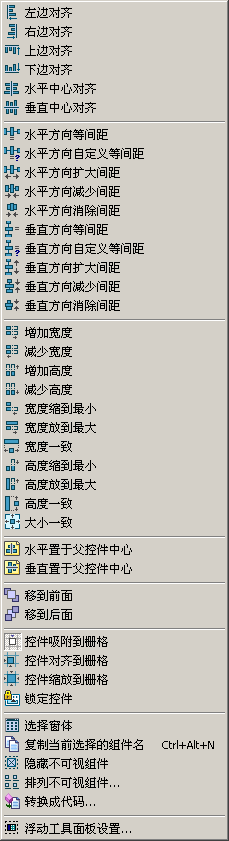
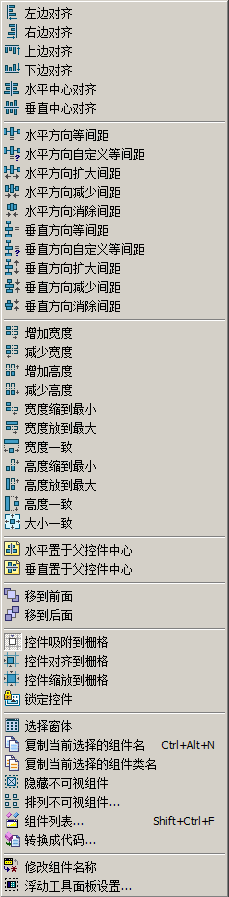
* [Form Design Wizard] Update Langauge Items and Help.

Changed region(s): [[0.0, 0.0, 1.0, 1.0], [0.6725, 0.8656, 0.917, 0.9275]]

diff --git a/Help/CnWizards_ENU/wizards/alignsizewizards.htm b/Help/CnWizards_ENU/wizards/alignsizewizards.htm
@@ -105,6 +105,8 @@ Some functions are only enabled when one or more components are selected. And so
   <li>
   <p class="text" align="left"><b>Copy Component's Name</b>: Copy selected component name to clipboard and switch to source editor for pasting. If more than one components are selected, multi-line names will be copied. If Shift was pressed, No switching to source will be performed.</li>
 	<li>
+  <p class="text" align="left"><b>Copy Component's Class Name</b>: Copy selected component class name to clipboard and switch to source editor for pasting. If more than one components are selected, multi-line names will be copied. If Shift was pressed, No switching to source will be performed.</li>
+	<li>
 	<p class="text" align="left"><b>Hide Non-visual</b>: Hide/Show all non-visual components in current form. This setting does NOT affect those added later.</li>
   <li>
   <p class="text" align="left"><b>Arrange Non-visual</b>: Arrange non-visual components in current form. See below.</li>
